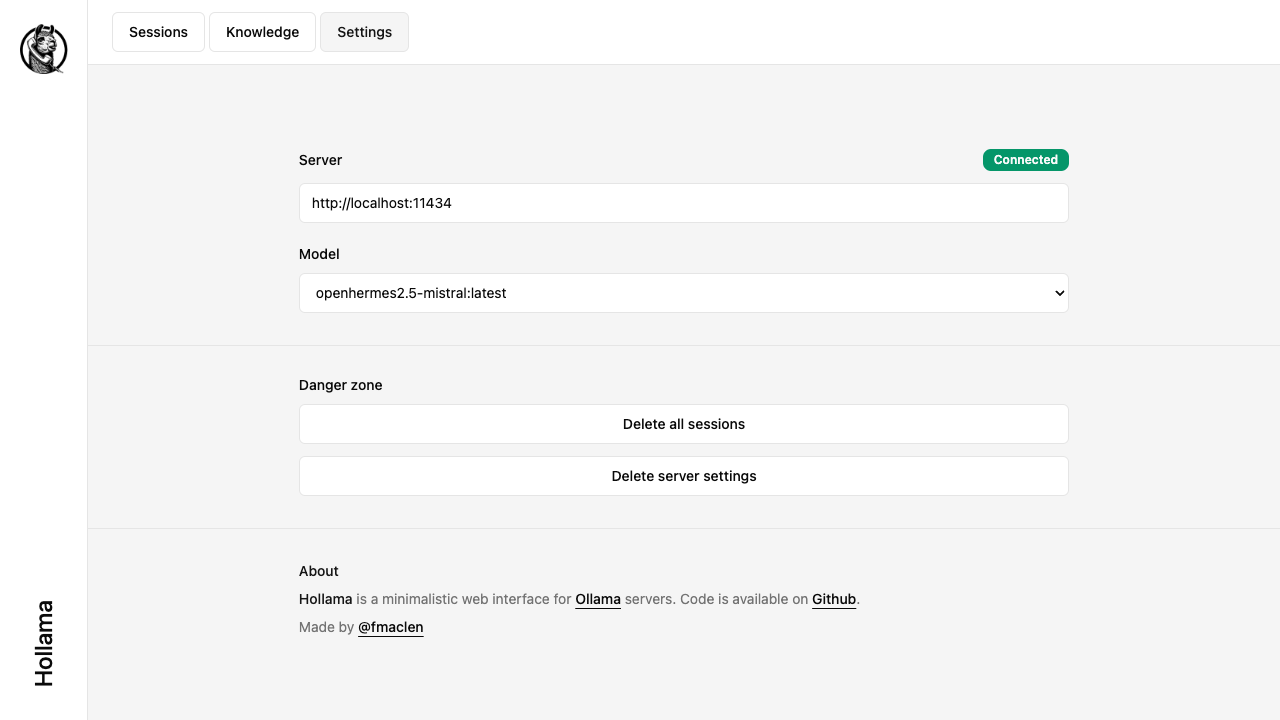
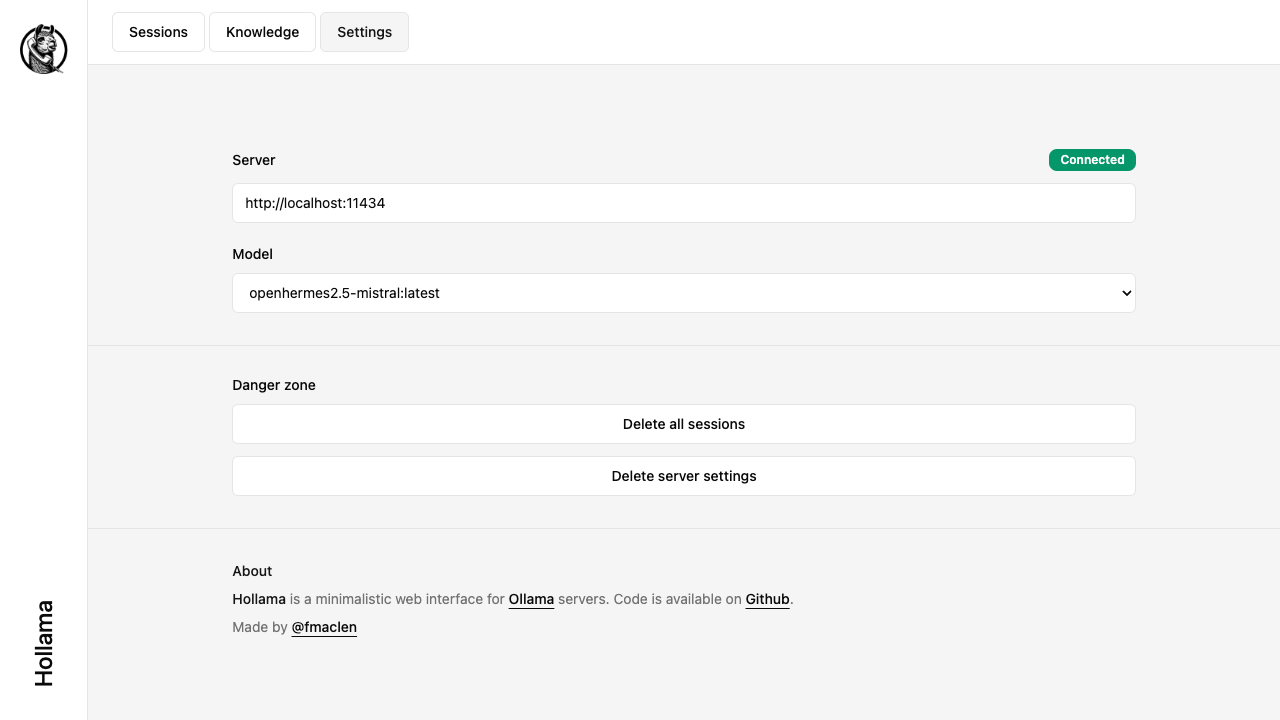
fix: consolidate widths of form elements and completions (#69)
* fix: consolidate width of form elements and completions

* Update Fieldset.svelte

* update docs

diff --git a/src/routes/+page.svelte b/src/routes/+page.svelte
@@ -138,7 +138,7 @@
 
 	<Separator class="mb-8 mt-8" />
 
-	<div class="container mx-auto max-w-full xl:max-w-[70%] flex flex-col gap-y-2">
+	<div class="container mx-auto max-w-full xl:max-w-[96ch] flex flex-col gap-y-2">
 		<p class="p"><strong>About</strong></p>
 		<p class="p">
 			<strong>Hollama</strong> is a minimalistic web interface for

diff --git a/src/lib/components/Fieldset.svelte b/src/lib/components/Fieldset.svelte
@@ -8,7 +8,7 @@
 
 <style lang="scss">
 	.fieldset {
-		@apply container mx-auto flex max-w-full flex-col gap-y-6 xl:max-w-[70%];
+		@apply container mx-auto flex max-w-full xl:max-w-[96ch] flex-col gap-y-6;
 
 		&--fullscreen {
 			@apply h-full py-6 overflow-hidden;

diff --git a/src/routes/sessions/[id]/Article.svelte b/src/routes/sessions/[id]/Article.svelte
@@ -79,7 +79,7 @@
 
 <style lang="scss">
 	.article {
-		@apply mx-auto flex w-full max-w-[70ch] flex-col last:mb-0;
+		@apply mx-auto flex w-full max-w-[96ch] flex-col last:mb-0;
 
 		&__nav {
 			@apply grid grid-cols-[max-content_auto_max-content] items-center;
